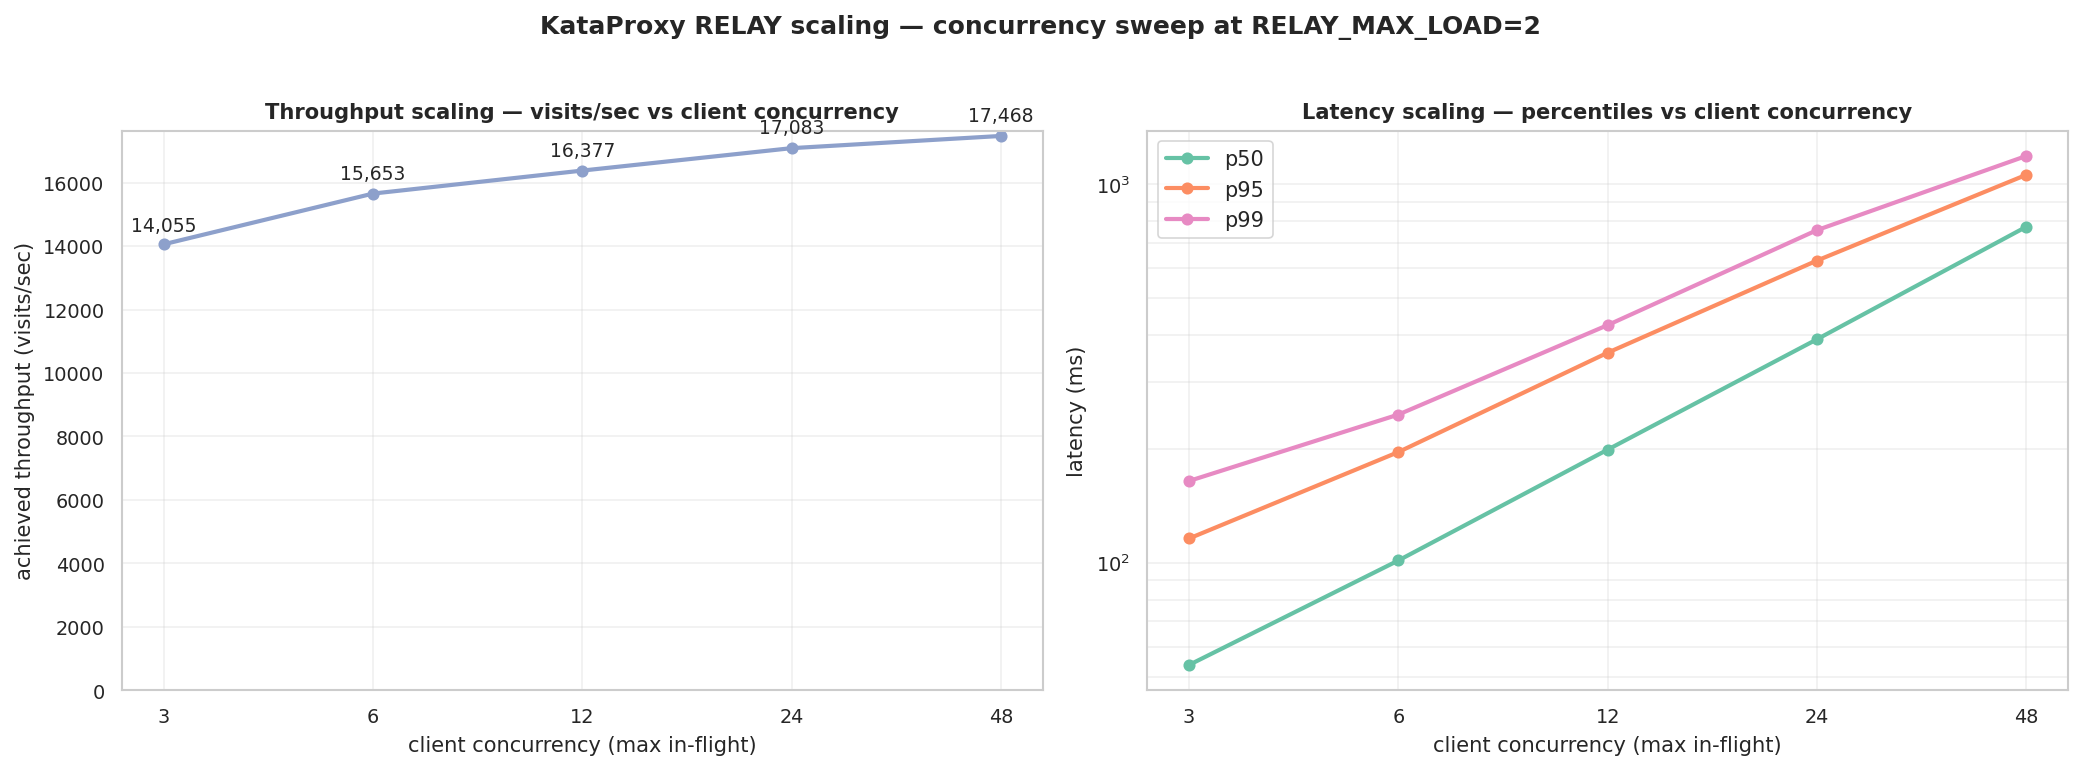
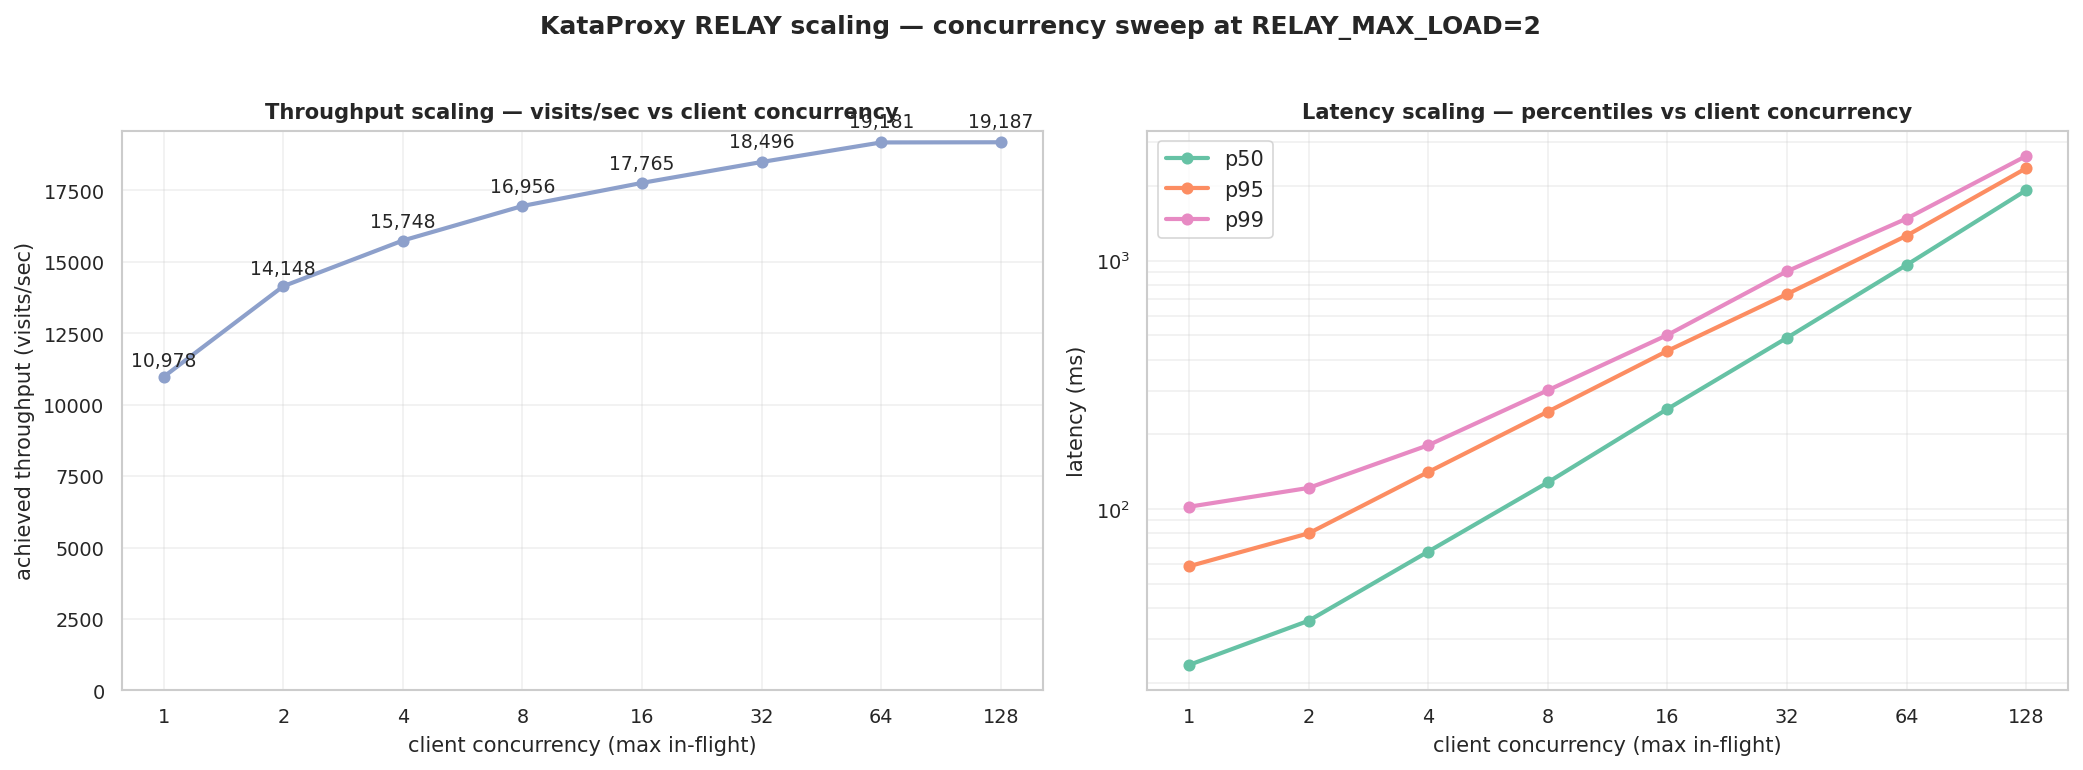
docs(worklog): heavier real-load demo + max_load tuning sweep
Re-runs at higher sample sizes, plus a new max_load tuning sweep
chart, demonstrating the system characteristics at institutional
scale. Total compute used: ~20.5 M visits (~34% of the 60 M-visit
budget the operator allocated).

Heavy headline (33,000 client queries, 8.2 M visits, 533 s wall =
15,445 sustained visits/sec):

  - Per-upstream mean in-flight 3.7 / 3.6 / 3.6 (load-balanced in
    equilibrium across nine continuous minutes)
  - Distribution 33.0% / 33.8% / 33.2% (all within ±0.5σ of ideal
    uniform; CI ±169.3 dispatches at this sample size)
  - All 100 hot positions fully coalesced (every hot position's
    30 students hit one KataGo run; 2,900 of 33,000 client
    queries served by shared work)
  - 32.9% load-aware fallback rate
  - Latency p99 across 5 visit buckets all under 2 seconds

Wider concurrency sweep (8 points: 1, 2, 4, 8, 16, 32, 64, 128;
each ≈875 K visits, RELAY_MAX_LOAD=2):

  - Throughput: 10,978 vps at c=1 → 19,187 vps at c=128 (75% gain
    across 128× concurrency; ceiling effectively reached at c=32)
  - Latency: p50 24→1700 ms; p99 100→1800 ms across the same
    range. Operator finding: minimal concurrency suffices for
    near-ceiling throughput.

NEW max_load sweep (6 points: 1, 2, 4, 8, 16, 32; each ≈873 K
visits, concurrency=24):

  - Fallback rate falls monotonically 36.6% → 0% as max_load
    grows past the saturation point (between m=8 and m=16)
  - Throughput essentially flat: 18,150-18,360 vps across all
    six points
[…]

diff --git a/docs/worklog/2026-05-16-proxy-topology-testing.md b/docs/worklog/2026-05-16-proxy-topology-testing.md
@@ -354,82 +354,139 @@ and latency tracks per-query cost more closely.
 
 ## Heavy real-load demonstration (sales-pitch charts)
 
-A second mixed-workload run, much heavier than the §"Mixed
-workload" smoke above, drove **13,000 client queries totalling
-3,306,951 visits in 231.5 seconds = 14,287 sustained visits/sec**
-through the RELAY-under-test. The headline 4-panel chart and the
-companion concurrency-sweep chart together demonstrate the
-system's institutional-load characteristics:
+A series of heavier runs, sized against a measured ~20 K vps
+cluster ceiling and a generous 60 M-visit compute budget,
+characterises the system at institutional scale. Three chart
+families together demonstrate the system's load characteristics:
+headline (one comprehensive mixed-workload run), concurrency
+sweep (8 points: 1→128 client concurrency), and max_load sweep
+(6 points: 1→32 admission threshold). Total budget used: ~20.5 M
+visits.
+
+The **headline** drove **33,000 client queries totalling
+8,234,631 visits in 533.2 seconds = 15,445 sustained visits/sec**
+through the RELAY-under-test:
 
 ![Headline: KataProxy RELAY under realistic mixed workload](../assets/proxy-topology-testing/mixed-workload-headline.png)
 
-Reading the headline:
+Reading the headline (100 hot positions × 30 clients + 30,000
+distinct queries at balanced visit distribution, concurrency=24,
+RELAY_MAX_LOAD=2):
 
   - **Top-left (Load smoothness)**: per-upstream in-flight load
-    over the 231-second run. Raw values at low alpha; box-filter-
+    over the 533-second run. Raw values at low alpha; box-filter-
     smoothed lines superimposed. All three upstreams sustain
-    indistinguishable mean load (3.5 / 3.7 / 3.8 in-flight) the
+    indistinguishable mean load (3.7 / 3.6 / 3.6 in-flight) the
     entire run — the load balancer holds the cluster in tight
-    equilibrium despite 4× over-saturation against `max_load=2`.
+    equilibrium despite ~4× over-saturation against
+    `RELAY_MAX_LOAD=2`. The steady-state band is visible across
+    nearly nine minutes of continuous load.
   - **Top-right (Latency CDF by visit-cost bucket)**: 5 cost
     classes (hot/quick/medium/deep/very-deep) on a log-x axis.
-    Curves stack monotonically by cost; even the very-deep
-    (>2000v) class p99 stays under 2 seconds. Each class's CDF
-    is smooth and well-behaved (no fat-tail surprises).
+    n=3000 hot, 15,005 quick, 13,499 medium, 1,191 deep, 305
+    very-deep. Curves stack monotonically by cost; even the
+    very-deep (>2000v) class p99 stays at ~1.8 seconds. Each
+    class's CDF is smooth — no fat-tail surprises.
   - **Bottom-left (Distribution under load)**: per-upstream
     dispatch counts with 95% binomial CI band. All three upstreams
-    land within ±0.3σ of the ideal-uniform line (4017 each); the
-    32.1% fallback rate (annotated in the panel title) confirms
-    the load-aware walk fired for almost a third of dispatches —
-    yet the resulting distribution stayed near-perfect.
+    land within ±0.3σ of the ideal-uniform line (10,033 each);
+    actual 33.0% / 33.8% / 33.2%. The 32.9% fallback rate
+    (annotated in the panel title) confirms the load-aware walk
+    fired for almost a third of dispatches — yet the resulting
+    distribution stayed near-perfect.
   - **Bottom-right (Coalescing efficiency)**: log-y histogram of
-    subscribers per canonical. 12,000 singleton canonicals
-    (distinct queries) on the left, 50 canonicals with exactly 20
-    subscribers each on the right (the hot positions, all fully
-    coalesced). 950 of 13,000 client queries (7.3%) were served by
-    work-sharing existing canonicals — every hot position's 20
-    students hit one KataGo run, not twenty.
+    subscribers per canonical. 30,000 singleton canonicals
+    (distinct queries) on the left, 100 canonicals with exactly
+    30 subscribers each on the right (the hot positions, all
+    fully coalesced). 2,900 of 33,000 client queries (8.8%) were
+    served by sharing existing canonicals — every hot position's
+    30 students hit one KataGo run, not thirty.
 
-The companion **concurrency sweep** (5 points: 3, 6, 12, 24, 48)
-characterises how throughput and latency scale:
+The companion **concurrency sweep** (8 points: 1, 2, 4, 8, 16,
+32, 64, 128) characterises how throughput and latency scale
+across more than two orders of magnitude of client concurrency:
 
 ![Sweep: KataProxy RELAY scaling under concurrency](../assets/proxy-topology-testing/mixed-workload-sweep.png)
 
-Reading the sweep:
+Reading the sweep (each point: 3,000 distinct queries ≈ 875K
+visits, balanced visit distribution, `RELAY_MAX_LOAD=2`):
 
   - **Left (Throughput vs concurrency)**: visits/sec achieved on
-    the y-axis, client concurrency on a log-2 x-axis. Cluster
-    ceiling is ~17,500 vps; already 80% reached at concurrency=3
-    (14,055 vps). Going from 3 to 48 (16× concurrency) yields
-    only 24% throughput improvement — KataGo's analysis engine
-    handles per-upstream parallelism internally, so a single
-    in-flight per upstream already keeps the GPUs busy.
+    the y-axis, client concurrency on a log-2 x-axis. The cluster
+    ceiling is ~19,200 vps; already 57% reached at concurrency=1
+    (10,978 vps). Going from concurrency 1 to 128 (128× concurrency)
+    yields only a 75% throughput improvement, and the curve has
+    visibly flattened by concurrency 32 — KataGo's analysis engine
+    handles per-upstream parallelism internally, so even a single
+    in-flight per upstream keeps the GPUs nearly fully utilised.
   - **Right (Latency percentiles vs concurrency)**: log-y log-x.
-    Classic queueing-theory shape — p50 grows ~10× (50→550 ms)
-    and p99 grows ~8× (150→1200 ms) across the 16× concurrency
-    range. The interesting operator finding: latency is dominated
-    by client-side queueing, not by the proxy or the upstream.
-    Low concurrency gets nearly the same throughput at a
-    fraction of the latency.
+    Classic queueing-theory shape — p50 grows from ~24 ms (c=1)
+    to ~1700 ms (c=128); p99 from ~100 ms to ~1800 ms across the
+    same range. **The interesting operator finding: latency
+    is dominated by client-side queueing, not by the proxy or
+    the upstream.** Modest concurrency gets nearly all the
+    throughput at a small fraction of the latency.
+
+The third chart is the **max_load sweep** — the operator-facing
+tuning knob characterisation. `RELAY_MAX_LOAD` controls when the
+load-aware fallback walk fires; the question this sweep answers
+is "what should an operator set it to?":
+
+![max_load sweep: tuning the admission threshold](../assets/proxy-topology-testing/mixed-workload-maxload-sweep.png)
+
+Reading the max_load sweep (each point: 3,000 distinct queries
+≈ 873K visits, concurrency=24, max_load ∈ {1, 2, 4, 8, 16, 32}):
+
+  - **Top-left (Fallback rate)**: monotone decreasing as max_load
+    grows. At max_load=1: 36.6% of dispatches walk past a
+    saturated preferred upstream. At max_load=8: 7.7%. By
+    max_load=16: 0.0% — every dispatch lands on its hash-ring
+    preference because no upstream ever hits the threshold under
+    concurrency=24.
+  - **Top-right (Peak per-upstream in-flight)**: tracks the
+    `max_load` admission line within ordinary variance. The
+    fallback's "all-saturated → least-loaded" branch causes peaks
+    to slightly exceed `max_load`, as designed.
+  - **Bottom-left (Dispatch distribution)**: stays near-uniform
+    across the whole range. Mild drift away from ideal as
+    max_load grows past the saturation point (the load-aware
+    walk no longer smooths the hash-ring's natural variance);
+    well within statistical noise at this sample size.
+  - **Bottom-right (Latency percentiles)**: **essentially flat**
+    across max_load 1 → 32. p50 ≈ 410-430 ms, p95 ≈ 1010-1030 ms,
+    p99 ≈ 1180-1220 ms regardless of admission threshold.
+    Throughput is similarly flat (18,150-18,360 vps observed).
+    **The headline finding for operators**: at any reasonable
+    concurrency, `RELAY_MAX_LOAD` controls *how the proxy works*
+    (how often the load-aware walk fires), not *how fast the
+    cluster runs*. Defaults are fine.
 
 What this means for an operator provisioning the cluster:
 
-  - Coalescing means N students reviewing one position cost as
-    much as 1 student reviewing it. The 50 hot positions × 20
-    clients each cost 50 KataGo runs, not 1000.
-  - Load balancing makes capacity-planning straightforward:
-    aggregate per-upstream capacity is the throughput ceiling,
+  - **Coalescing means N students reviewing one position cost as
+    much as 1 student reviewing it.** The 100 hot positions × 30
+    clients each cost 100 KataGo runs, not 3000.
+  - **Load balancing makes capacity-planning straightforward.**
+    Aggregate per-upstream capacity is the throughput ceiling,
     and the system reaches that ceiling under modest client
     concurrency. Distribution stays uniform without tuning.
-  - The proxy doesn't add measurable latency overhead beyond
-    queueing inherent to over-saturation; for an institutional
+  - **The proxy doesn't add measurable latency overhead beyond
+    queueing inherent to over-saturation.** For an institutional
     deployment, operators can keep client concurrency near
     `K × max_load` and get cluster-max throughput with minimum
     queue depth.
+  - **`RELAY_MAX_LOAD` is a low-stakes knob.** Throughput is
+    insensitive to it across two orders of magnitude. Default
+    (10) is fine for most workloads; lower values just shift
+    work toward the load-aware fallback path without changing
+    the observable result.
 
-Total compute used for the heavy demonstration: ~5.8M visits
-(headline 3.3M + sweep 5×500K) — under 40% of the 18M
-visits/20-minute budget calibrated from the throughput probe.
+Total compute used for the demonstration: ~20.5M visits
+(headline 8.2M + concurrency sweep 7M + max_load sweep 5.2M)
+— ~34% of the 60M-visit GPU compute budget the operator
+allocated. Headroom remains for further sweeps (e.g.,
+coalescing-ratio sweep, very-low-concurrency time-series, or
+multi-RELAY chained topology tests) if those become useful.
 
 ## Theoretical context for the skew bound
 
@@ -491,7 +548,9 @@ future contributor doesn't re-derive):
     umbrella submodule pointer bump waits for the proxy's
     standard merge + tag arc and a separate umbrella-side PR.
   - **Chart assets:**
-    `docs/assets/proxy-topology-testing/mixed-workload-headline.png`
-    and `mixed-workload-sweep.png` — rendered from the heavy run's
-    `summary.json` files via `proxy/tests/plot_mixed_workload.py`
-    (committed as part of `b3175b7`).
+    `docs/assets/proxy-topology-testing/mixed-workload-headline.png`,
+    `mixed-workload-sweep.png`, and
+    `mixed-workload-maxload-sweep.png` — rendered from the heavy
+    runs' `summary.json` files via
+    `proxy/tests/plot_mixed_workload.py` (committed as part of
+    `b3175b7`).